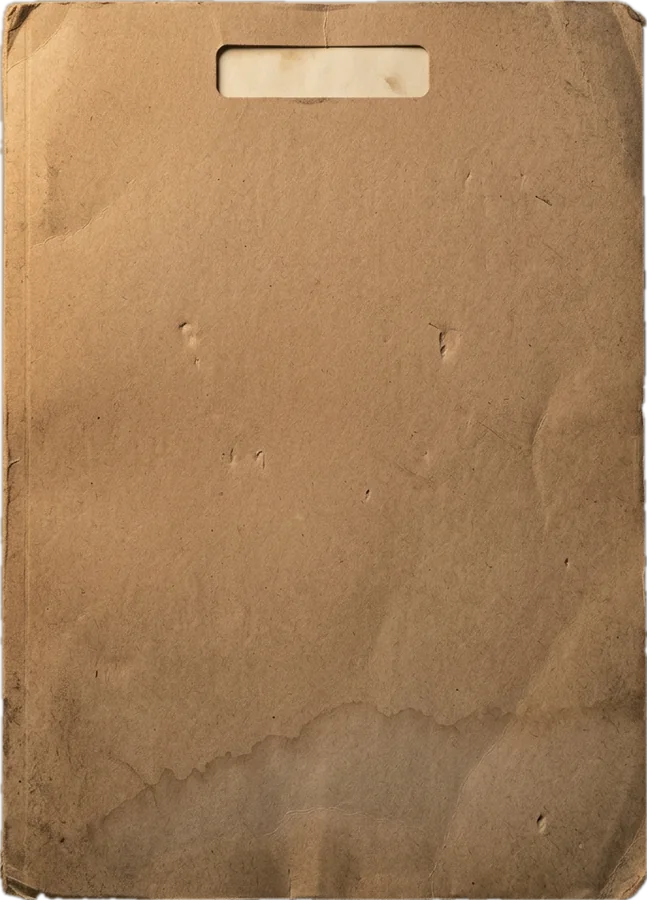
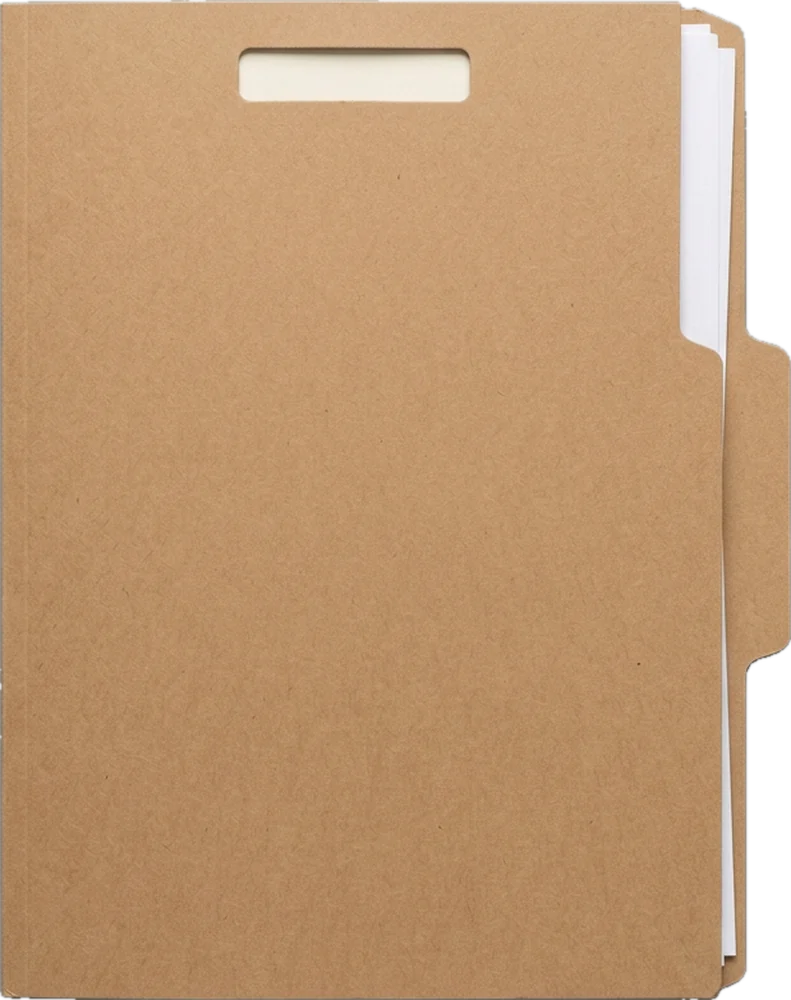
Progetti: cartelle nuove e pulite, e sulla copertina solo il titolo
Le cartelle sono le tre nuove fatte con Firefly, pulite come il fascicolo di
riferimento invece che invecchiate. Sulla copertina resta solo il titolo tra
virgolette, piccolo e battuto a macchina, con il sigillo blu e le righe vuote:
via l'ente, la fase, le tavole e il numero.

Claude-Session: https://claude.ai/code/session_0132maytbjQPjkvku1fYAZ7S

diff --git a/js/fascicoli.js b/js/fascicoli.js
@@ -32,24 +32,35 @@ import { calcPct, getPhaseIndex } from './progress.js';
 import { openProject } from './project.js';
 import { esc } from './testo.js';
 
-// Le due cartelle, con dove sta la finestrella dell'etichetta (in frazioni
-// della foto ritagliata, misurate a mano sulle due immagini).
+// LE CARTELLE, dall'11 ottobre 2026 nuove e pulite come quella del
+// riferimento. Le prime due erano invecchiate, macchiate e strappate — colpa
+// del prompt, che chiedeva "aged and worn": "sembra un documento di cento
+// anni fa, invece l'originale e' fresco". Queste tre vengono dal prompt
+// rifatto (versioni A, B e C), ritagliate dal grigio tenendo i fogli bianchi
+// che spuntano (scratchpad: taglia2.py).
+// Per ognuna: le proporzioni e quanto e' larga la copertina vera e propria — a destra ci sono la linguetta e i fogli, e le
+// scritte vanno centrate sulla copertina, non sulla foto intera. Misurate
+// sulle foto ritagliate, in frazioni della larghezza e dell'altezza.
 const CARTELLE = [
-  { src:'img/fascicoli/cartella-1.webp', r:645/900, fin:{ x:.33, y:.073, w:.35, h:.08 } },
-  { src:'img/fascicoli/cartella-2.webp', r:647/900, fin:{ x:.33, y:.05,  w:.33, h:.057 } },
+  { src:'img/fascicoli/cartella-1.webp', r:570/739, cop:.908 },
+  { src:'img/fascicoli/cartella-2.webp', r:619/783, cop:.895 },
+  { src:'img/fascicoli/cartella-3.webp', r:648/848, cop:.912 },
 ];
-// Otto fascicoli diversi da due foto: quale foto, specchiata o no, e un tono.
-// I toni restano nella famiglia del cartone: piu' scuro, piu' caldo, piu'
-// sbiadito — mai un colore che il cartone non avrebbe.
+// Otto fascicoli diversi da tre foto: quale foto, specchiata o no (la
+// linguetta passa a sinistra), e un filo di tono. Pochissimo: il cartone e'
+// nuovo, e un filtro forte lo faceva sembrare sporco. Tutti un po' piu' caldi
+// e piu' bassi della foto di studio, che e' illuminata a giorno, mentre la
+// scrivania ha una lampada sola.
+const LAMPADA = 'brightness(.9) sepia(.08)';
 const VARIANTI = [
-  { c:0, flip:false, f:'none',                                         r:-1.1 },
-  { c:1, flip:false, f:'brightness(.93) sepia(.1)',                    r: .8 },
-  { c:0, flip:true,  f:'brightness(.88) saturate(1.08)',               r:-.4 },
-  { c:1, flip:true,  f:'brightness(1.04) saturate(.85)',               r:1.2 },
-  { c:0, flip:false, f:'brightness(.82) sepia(.18) saturate(1.1)',     r:-.8 },
-  { c:1, flip:false, f:'brightness(.97) hue-rotate(-6deg)',            r: .5 },
-  { c:0, flip:true,  f:'brightness(1.02) saturate(.9) sepia(.08)',     r:-1.3 },
-  { c:1, flip:true,  f:'brightness(.86) saturate(1.12)',               r: .9 },
+  { c:0, flip:false, f:LAMPADA,                              r:-1.1 },
+  { c:1, flip:false, f:LAMPADA,                              r: .8 },
+  { c:2, flip:false, f:LAMPADA,                              r:-.4 },
+  { c:0, flip:true,  f:LAMPADA + ' brightness(.96)',         r:1.2 },
+  { c:1, flip:true,  f:LAMPADA + ' saturate(1.06)',          r:-.8 },
+  { c:2, flip:true,  f:LAMPADA + ' brightness(1.03)',        r: .5 },
+  { c:1, flip:false, f:LAMPADA + ' brightness(.95)',         r:-1.3 },
+  { c:0, flip:false, f:LAMPADA + ' saturate(.94)',           r: .9 },
 ];
 const CHIAVE_VISTA = 'inkflow-progetti-vista';
 let _c = 0;           // il fascicolo al centro
@@ -73,40 +84,24 @@ export function aggiornaVista(){
   if(on) disegnaFascicoli();
 }
 
-function numero(i){
-  // Il numero di fascicolo e' il posto nella fila: P-0001 e' il primo a
-  // sinistra. La prima versione contava dal piu' vecchio, e il terzo della
-  // fila portava scritto P-0007.
-  return 'P-' + String(i + 1).padStart(4, '0');
-}
-
 function copertina(p, i){
   const v = VARIANTI[i % VARIANTI.length], c = CARTELLE[v.c];
-  const fase = PHASE_NAMES[getPhaseIndex(p)] || '';
   const titolo = esc(p.title || 'Senza titolo');
   // la finestrella, se la foto e' specchiata, sta dall'altra parte
-  const fx = v.flip ? 1 - c.fin.x - c.fin.w : c.fin.x;
-  // LA COPERTINA E' QUELLA DEL FASCICOLO FBI DEL RIFERIMENTO, riga per riga:
-  // l'ente su tre righe al centro, "Titolo" piccolo con il nome in rosso
-  // sottolineato, il sigillo piccolo, e sotto due colonne di righe da
-  // riempire a mano. La prima versione aveva scritte grandi, in maiuscolo e
-  // allineate a sinistra, piu' un timbro della percentuale: il fascicolo
-  // sembrava minuscolo sotto le scritte ("il font e' troppo grande rispetto
-  // al fascicolo"). Le righe sotto sono quasi tutte vuote apposta: e' un
-  // modulo, non una scheda riassuntiva.
+  // la copertina vera e propria: specchiata, la linguetta sta a sinistra
+  const cx = v.flip ? 1 - c.cop : 0;
+  // SULLA COPERTINA SOLO IL TITOLO, tra virgolette, battuto a macchina.
+  // Prima c'erano anche l'ente su tre righe ("INKFLOW STUDIO DI NARRATIVA
+  // DISEGNATA"), "Titolo", la fase, le tavole e il numero nella finestrella:
+  // "ma che cazzo e'... scrivi al massimo il titolo". Restano il sigillo blu
+  // e le righe vuote del modulo, che sono disegno e non testo.
   return `<div class="fasc" data-i="${i}" style="--storto:${v.r}deg;--asp:${c.r}">
     <img class="fasc-foto" src="${c.src}" alt="" draggable="false" style="transform:${v.flip ? 'scaleX(-1)' : 'none'};filter:${v.f}">
     <div class="fasc-stampa" aria-hidden="true">
-      <span class="fasc-etich" style="left:${fx*100}%;top:${c.fin.y*100}%;width:${c.fin.w*100}%;height:${c.fin.h*100}%">${numero(i)}</span>
-      <span class="fasc-ente">INKFLOW STUDIO<br>DI<br>NARRATIVA DISEGNATA</span>
-      <span class="fasc-tit"><i>Titolo</i><b>${titolo}</b></span>
-      ${SIGILLO}
-      <span class="fasc-righe">
-        <span><i>Fase</i>${esc(fase)}</span><span></span>
-        <span><i>Tavole</i>${p.numTav || 0}</span><span></span>
-        <span></span><span></span>
-        <span></span><span></span>
-        <span></span><span></span>
+      <span class="fasc-cop" style="left:${cx*100}%;width:${c.cop*100}%">
+        <span class="fasc-tit">&ldquo;${titolo}&rdquo;</span>
+        ${SIGILLO}
+        <span class="fasc-righe">${'<span></span>'.repeat(10)}</span>
       </span>
     </div>
     <span class="fasc-nome">${titolo}</span>

diff --git a/css/fascicoli.css b/css/fascicoli.css
@@ -95,8 +95,9 @@ body:not(.is-touch):not(.evening-mode) #screen-projects.vista-fascicoli .project
    macchina da scrivere con grazie squadrate e l'inchiostro che sbava un poco:
    messe accanto al ritaglio del riferimento otto famiglie libere (Courier
    Prime, Cutive, Kreon, Rokkitt, Zilla Slab...), la piu' vicina e' Special
-   Elite. Piccola, tutto centrato: l'ente e' alto circa il 3,5% della
-   larghezza della cartella, ed e' quello che la fa sembrare grande.
+   Elite. Poi anche cosi' le scritte erano troppe e troppo grandi: dall'11
+   ottobre resta solo il titolo, piccolo, ed e' quello che fa sembrare grande
+   la cartella.
    "multiply": l'inchiostro prende il colore e le macchie del cartone sotto.
    Le misure sono in cqw (centesimi della larghezza del fascicolo), cosi'
    restano al loro posto su qualsiasi telefono. */
@@ -104,31 +105,25 @@ body:not(.is-touch):not(.evening-mode) #screen-projects.vista-fascicoli .project
   position:absolute;inset:0;pointer-events:none;mix-blend-mode:multiply;
   font-family:'Special Elite','Courier Prime','Courier New',serif;color:#3b2c22;
 }
-.fasc-etich{
-  position:absolute;display:flex;align-items:center;justify-content:center;
-  font-size:3.6cqw;letter-spacing:.06em;color:#4a3a2e;
-}
-.fasc-ente{
-  position:absolute;left:0;right:0;top:25%;text-align:center;
-  font-size:4.2cqw;line-height:1.7;letter-spacing:.04em;color:#2c1f17;
-}
+/* La copertina vera e propria, senza linguetta e fogli: le scritte si
+   centrano qui dentro. */
+.fasc-cop{position:absolute;top:0;bottom:0}
+/* Il titolo: piccolo, poco sotto la finestrella, rosso come il nastro della
+   macchina. 4,2cqw su un fascicolo largo 270px fa circa 11px: a quella
+   misura la cartella resta grande e il titolo si legge. */
 .fasc-tit{
-  position:absolute;left:18%;right:18%;top:41%;display:flex;align-items:baseline;gap:1.2cqw;
-  border-bottom:.25cqw solid #9b2f25;padding-bottom:.3cqw;white-space:nowrap;overflow:hidden;
+  position:absolute;left:10%;right:10%;top:33%;text-align:center;
+  font-size:4.2cqw;color:#8e2a22;letter-spacing:.02em;
+  white-space:nowrap;overflow:hidden;text-overflow:ellipsis;
 }
-.fasc-stampa i{font-style:normal;font-size:2.7cqw;opacity:.85;flex:none}
-/* Il titolo in rosso, minuscolo come nel riferimento: e' scritto a macchina
-   con il nastro rosso, non stampato. */
-.fasc-tit b{font-weight:400;font-size:4.3cqw;color:#9b2f25;overflow:hidden;text-overflow:ellipsis}
 /* IL SIGILLO BLU. Piccolo come quello del riferimento (un quinto della
    cartella), un filo storto: un timbro messo a mano. */
 .fasc-sigillo{
-  position:absolute;left:50%;top:50%;width:23%;height:auto;aspect-ratio:1;
+  position:absolute;left:50%;top:46%;width:21%;height:auto;aspect-ratio:1;
   transform:translateX(-50%) rotate(-3deg);color:#2a62d0;opacity:.92;
   font-family:'Special Elite','Courier New',serif;
 }
-/* Le due colonne di righe da riempire. Le prime due portano la fase e le
-   tavole, scritte piccole sopra la riga; le altre restano vuote. */
+/* Le due colonne di righe da riempire, vuote come sull'originale. */
 .fasc-righe{
   position:absolute;left:12%;right:12%;top:68%;
   display:grid;grid-template-columns:1fr 1fr;column-gap:10%;row-gap:0;
@@ -137,7 +132,6 @@ body:not(.is-touch):not(.evening-mode) #screen-projects.vista-fascicoli .project
   height:5.4cqw;border-bottom:.25cqw solid rgba(110,70,50,.75);
   font-size:2.9cqw;line-height:5.6cqw;white-space:nowrap;overflow:hidden;
 }
-.fasc-righe i{margin-right:1.4cqw}
 .fasc-nome{position:absolute;width:1px;height:1px;overflow:hidden;clip:rect(0 0 0 0)}
 
 /* ── IL POSTO VUOTO IN FONDO ──

diff --git a/test/suite/fascicoli.js b/test/suite/fascicoli.js
@@ -61,8 +61,10 @@ module.exports = () => suite("Projects — i progetti come fascicoli sulla scriv
       sotto: !!document.querySelector('.fasc-indice, #fasc-conta, #fasc-vista'),
       centro: centro ? {
         i: +centro.dataset.i,
-        tit: (centro.querySelector('.fasc-tit b') || {}).textContent || '',
-        etich: (centro.querySelector('.fasc-etich') || {}).textContent || '',
+        tit: (centro.querySelector('.fasc-tit') || {}).textContent || '',
+        // sulla copertina c'e' scritto solo il titolo: niente ente, fase, numero
+        altro: Array.from(centro.querySelectorAll('.fasc-stampa :is(span,b,i)'))
+          .filter(e=> !e.closest('.fasc-tit') && e.children.length === 0 && e.textContent.trim()).map(e=> e.textContent),
         sx: Math.round(r.left), dx: Math.round(r.right), alto: Math.round(r.height),
       } : null,
     };
@@ -76,7 +78,8 @@ module.exports = () => suite("Projects — i progetti come fascicoli sulla scriv
   ok('piu\' il posto per uno nuovo, in fondo', s.nuovo === 1, s);
   ok('e sotto la fila nient\'altro', !s.sotto, s);
   ok('al centro c\'e\' il primo, col suo titolo', s.centro && s.centro.i === 0 && /kara/i.test(s.centro.tit), s.centro);
-  ok('e il numero sull\'etichetta e\' quello della linguetta', s.centro && s.centro.etich.trim() === 'P-0001', s.centro);
+  ok('il titolo sta tra virgolette', s.centro && /^\u201cKara\u201d$/.test(s.centro.tit.trim()), s.centro);
+  ok('e sulla copertina non c\'e\' scritto altro', s.centro && s.centro.altro.length === 0, s.centro);
 
   sezione('otto fascicoli di fila sono otto copertine diverse');
   // "voglio che siano uno diverso dall'altro": da due foto, specchiate e
